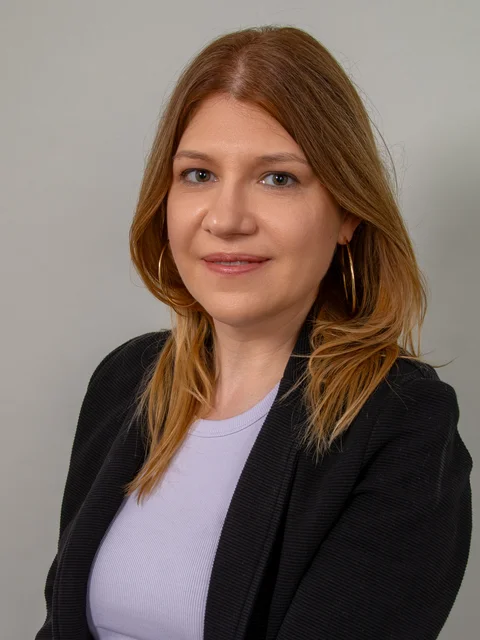
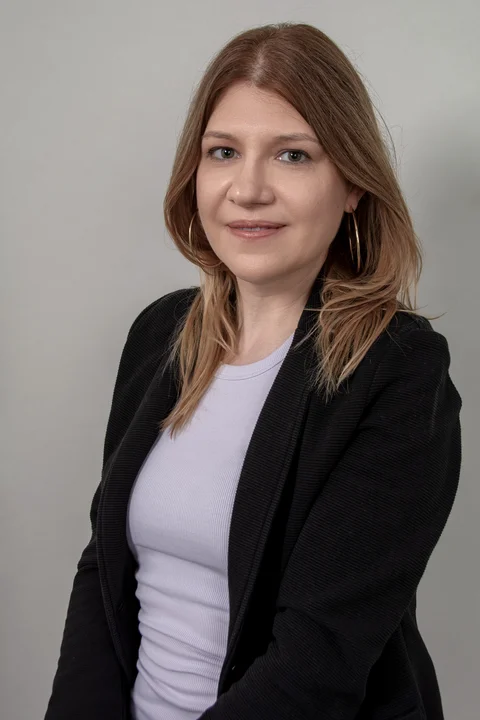
change pic

diff --git a/al-folio/_site/assets/jupyter/blog.ipynb.html b/al-folio/_site/assets/jupyter/blog.ipynb.html
@@ -3,7 +3,7 @@
 <html lang="en">
 <head><meta charset="utf-8"/>
 <meta content="width=device-width, initial-scale=1.0" name="viewport"/>
-<title>jekyll-jupyter-notebook20250620-8868-icds4</title><script src="https://cdnjs.cloudflare.com/ajax/libs/require.js/2.1.10/require.min.js"></script>
+<title>jekyll-jupyter-notebook20250620-10999-1oo0dh</title><script src="https://cdnjs.cloudflare.com/ajax/libs/require.js/2.1.10/require.min.js"></script>
 <style type="text/css">
     pre { line-height: 125%; }
 td.linenos .normal { color: inherit; background-color: transparent; padding-left: 5px; padding-right: 5px; }

diff --git a/docs/assets/jupyter/blog.ipynb.html b/docs/assets/jupyter/blog.ipynb.html
@@ -3,7 +3,7 @@
 <html lang="en">
 <head><meta charset="utf-8"/>
 <meta content="width=device-width, initial-scale=1.0" name="viewport"/>
-<title>jekyll-jupyter-notebook20250620-8868-icds4</title><script src="https://cdnjs.cloudflare.com/ajax/libs/require.js/2.1.10/require.min.js"></script>
+<title>jekyll-jupyter-notebook20250620-10999-1oo0dh</title><script src="https://cdnjs.cloudflare.com/ajax/libs/require.js/2.1.10/require.min.js"></script>
 <style type="text/css">
     pre { line-height: 125%; }
 td.linenos .normal { color: inherit; background-color: transparent; padding-left: 5px; padding-right: 5px; }

diff --git a/al-folio/_site/index.html b/al-folio/_site/index.html
@@ -288,8 +288,8 @@
       30vw, 95vw">
       
     
-    <img src="/assets/img/meike.jpg?0f25002cc601b9976798c5b9d3cd720b" class="img-fluid z-depth-1
-      rounded" width="100%" height="auto" alt="meike.jpg" loading="eager" onerror="this.onerror=null; $('.responsive-img-srcset').remove();">
+    <img src="/assets/img/meike.png?1eceea723d80acb287d84a889c9b1035" class="img-fluid z-depth-1
+      rounded" width="100%" height="auto" alt="meike.png" loading="eager" onerror="this.onerror=null; $('.responsive-img-srcset').remove();">
   </source></picture>
 
   

diff --git a/docs/index.html b/docs/index.html
@@ -288,8 +288,8 @@
       30vw, 95vw">
       
     
-    <img src="/assets/img/meike.jpg?0f25002cc601b9976798c5b9d3cd720b" class="img-fluid z-depth-1
-      rounded" width="100%" height="auto" alt="meike.jpg" loading="eager" onerror="this.onerror=null; $('.responsive-img-srcset').remove();">
+    <img src="/assets/img/meike.png?1eceea723d80acb287d84a889c9b1035" class="img-fluid z-depth-1
+      rounded" width="100%" height="auto" alt="meike.png" loading="eager" onerror="this.onerror=null; $('.responsive-img-srcset').remove();">
   </source></picture>
 
   

diff --git a/al-folio/_pages/about.md b/al-folio/_pages/about.md
@@ -6,7 +6,7 @@ subtitle: Research. Education. Interdisciplinarity. Computer Science.
 
 profile:
   align: right
-  image: meike.jpg
+  image: meike.png
   image_circular: false # crops the image to make it circular
   more_info: >
     <p>Karlsruhe Institute of Technology</p>
